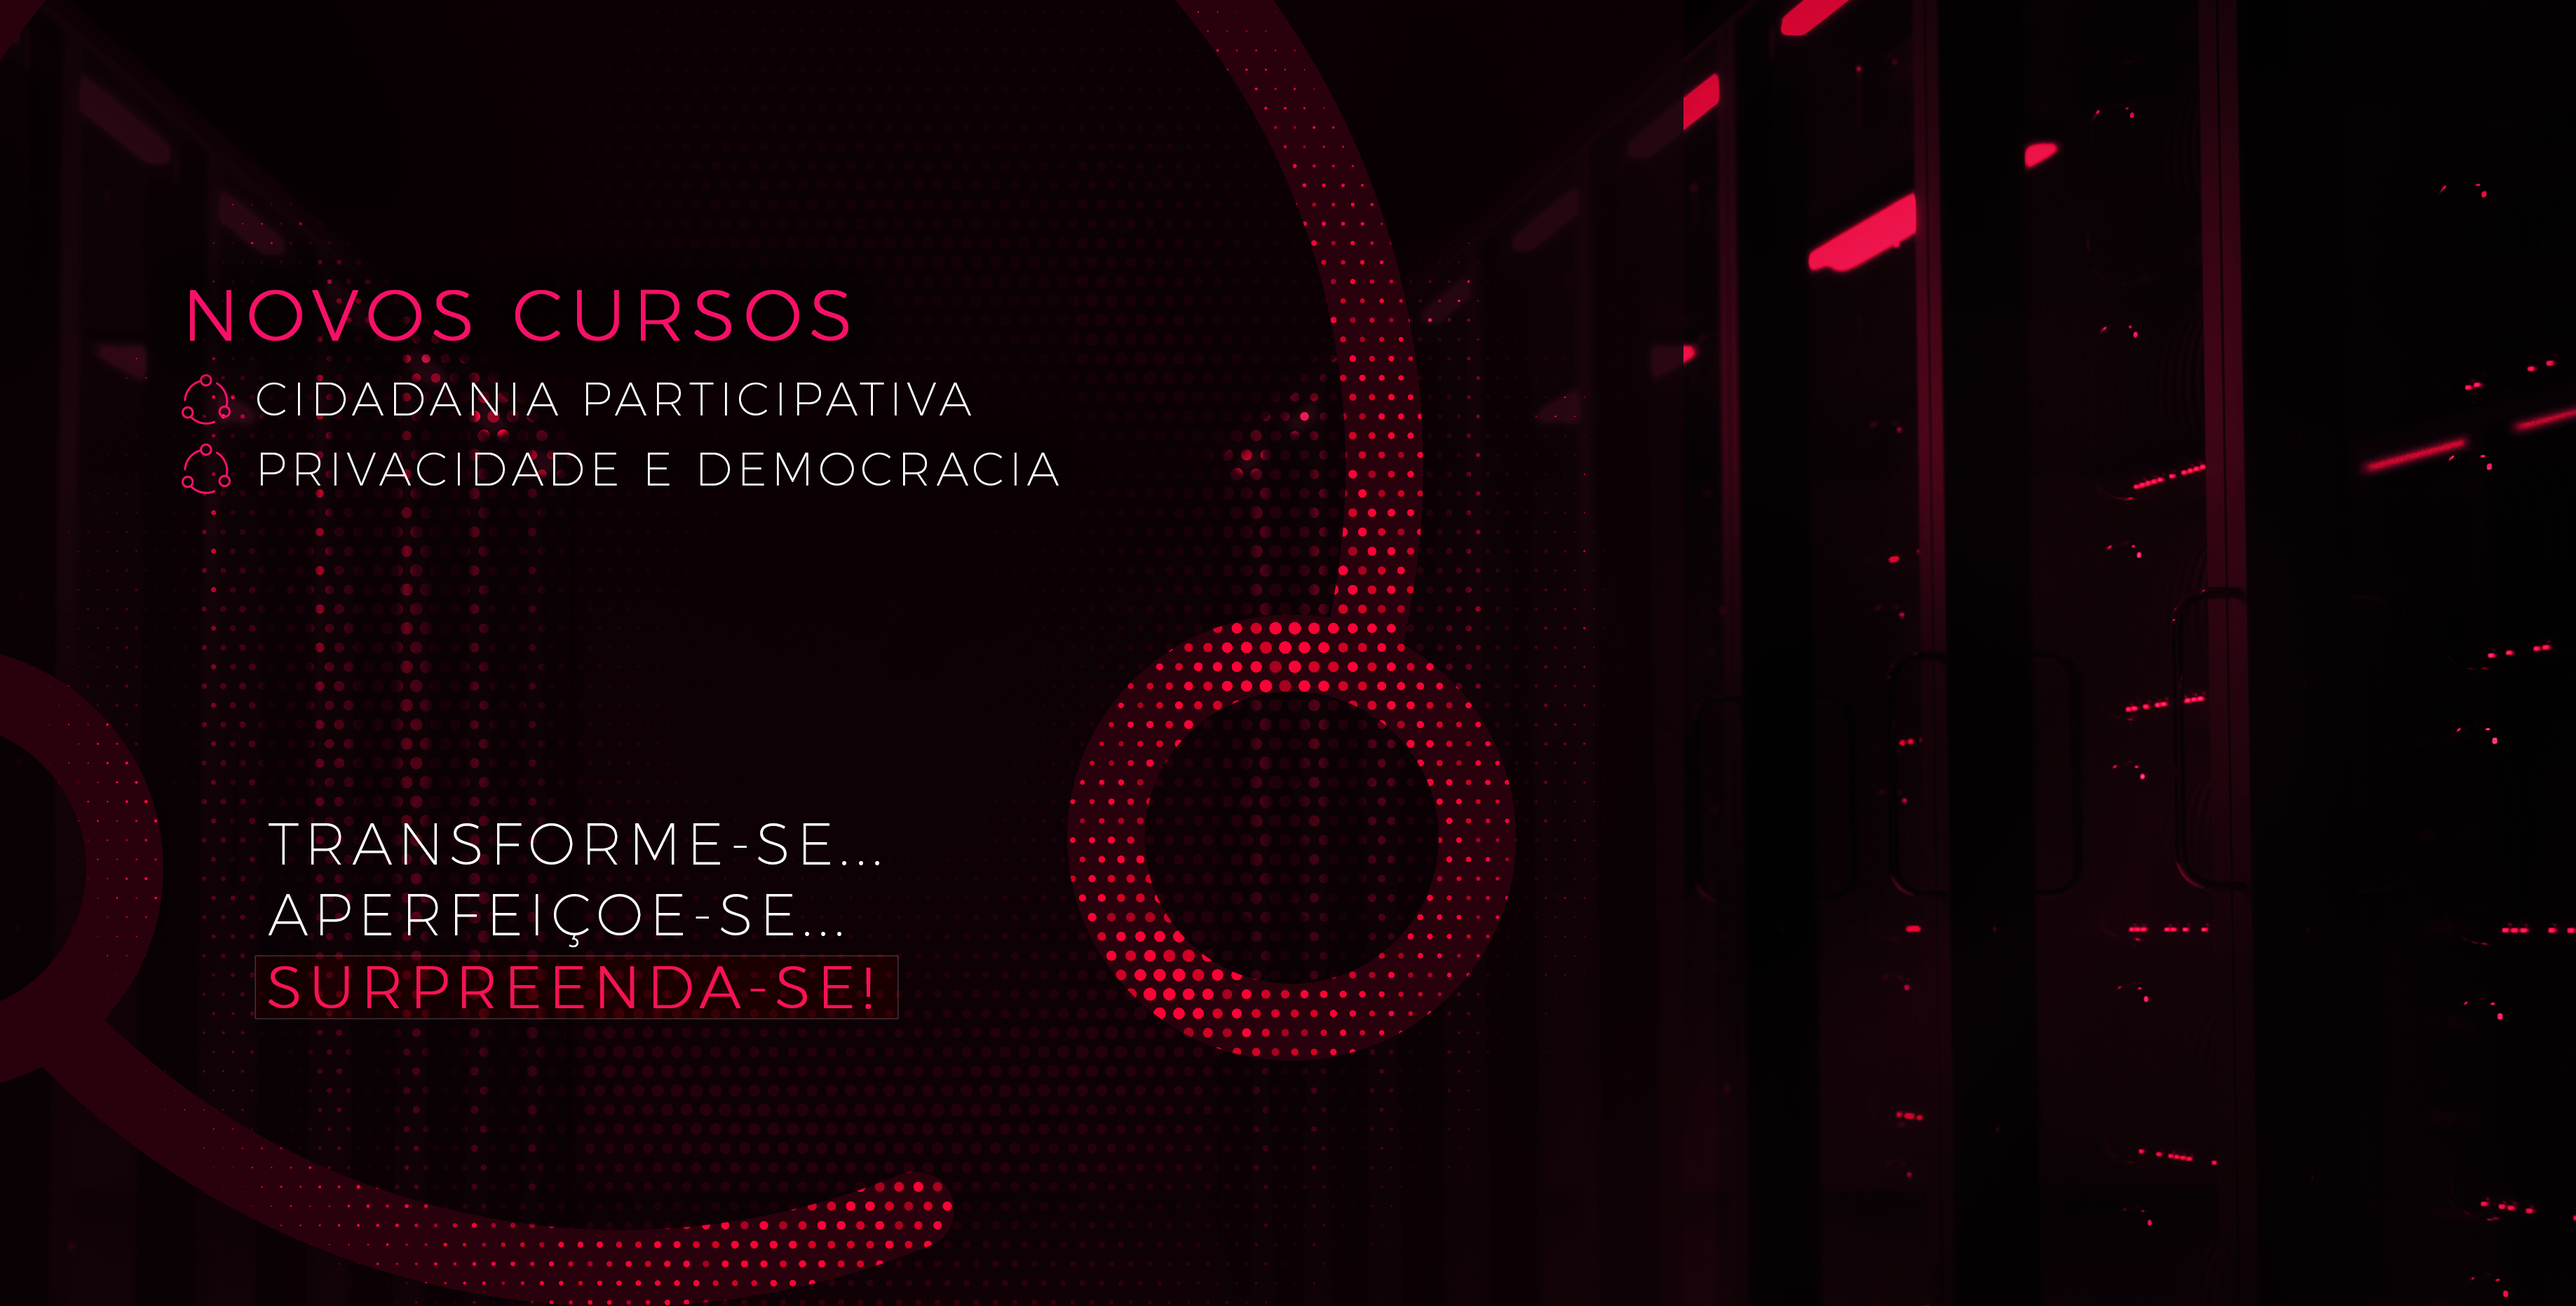
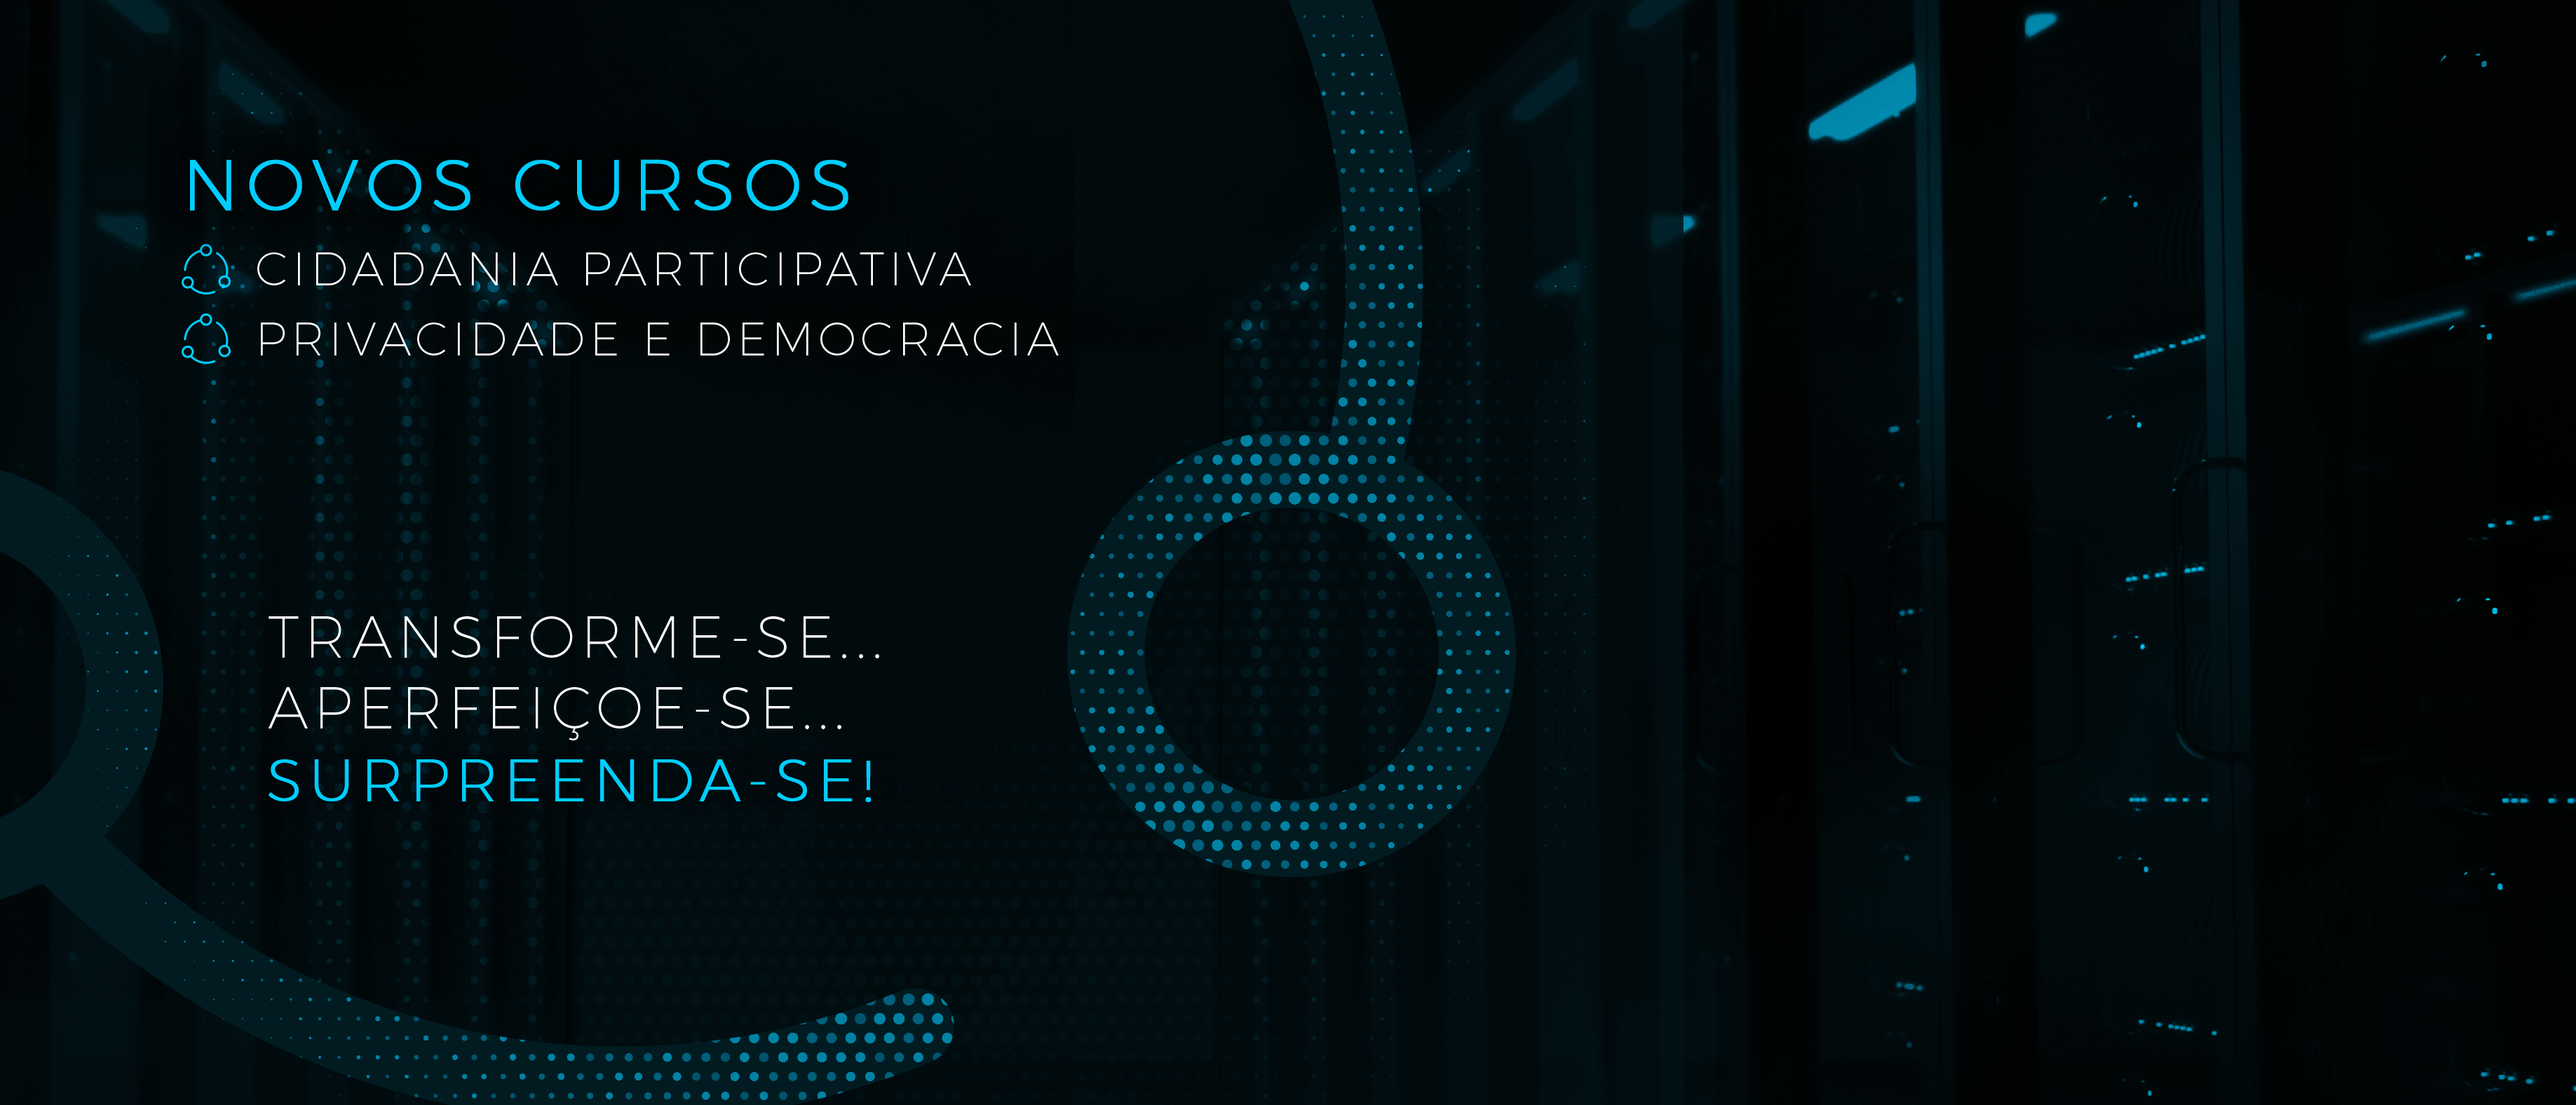
Nova identidade visual

diff --git a/estilo/estilos.css b/estilo/estilos.css
@@ -1,8 +1,6 @@
 /*
-#f61068 pink
-#2b2d42 blue
+#f61068 blue Fatecci
 #8d99af light gray
-#004765 another blue
 */
 
 /*1037x662*/
@@ -29,7 +27,7 @@ body::-webkit-scrollbar-thumb
     border-radius: 10px;
     box-shadow: inset 0 0 6px rgba(0,0,0,.3);
     -webkit-box-shadow: inset 0 0 6px rgba(0,0,0,.3);
-    background-color: #f61067;
+    background-color: #00cdff;
 }
 h1{
 	text-align: center;
@@ -47,9 +45,9 @@ h1{
 }
 .propaganda img{
     width: 100%;
-    border-bottom: 1px groove #f61067;
+    border-bottom: 1px groove #00cdff;
     display: none;
-    padding-top: 7.5%;
+    padding-top: 4%;
 }
 .propaganda img:first-of-type {
     display: block;
@@ -67,7 +65,7 @@ h1{
     top: 0;
     width: 100%;
     text-align: center;
-    border-bottom: 1px groove #f61067;
+    border-bottom: 1px groove #00cdff;
     margin-top: -1%;
     height: 100px;
     position: fixed;
@@ -100,7 +98,7 @@ ul{
 .navbar a:hover {
 /*  background-color: #ddd;*/
   color: #ababab;
-  border-bottom: 5px solid #f61067;
+  border-bottom: 5px solid #00cdff;
 }
 .cursos_geral{
     display: table;
@@ -108,7 +106,7 @@ ul{
 }
 .cursos_geral h3{
     font-size: 22px;
-    color: #f61067;
+    color: #00cdff;
     line-height: 150%;
     width: 60%;
     margin-right: 80%;
@@ -119,7 +117,7 @@ ul{
     text-align: center;
     font-size: smaller;
     text-indent: 0;
-    border: 1px groove #f61067;
+    border: 1px groove #00cdff;
     background-color: black;
     position: absolute;
 }
@@ -130,7 +128,7 @@ ul{
     float: right;
     width: 80%;
     text-align: center;
-    border: 1px groove #f61067;
+    border: 1px groove #00cdff;
     margin-top: 2em;
     margin-left: 10%;
     line-height: 150%;
@@ -150,7 +148,7 @@ ul{
 .footer{
     text-align: center;
     background-color: black;
-    border-top: 1px groove #f61067;
+    border-top: 1px groove #00cdff;
     color: #ababab;
     padding: 0;
     position: flex;
@@ -168,7 +166,7 @@ ul{
     color: black;
 }
 .conteudo_curso:hover{
-    border-bottom: 5px solid #f61067;
+    border-bottom: 5px solid #00cdff;
 }
 .curriculo{
     text-decoration: underline;
@@ -182,14 +180,14 @@ ul{
 }
 .sobre h3{
     font-size: 22px;
-    color: #f61067;
+    color: #00cdff;
 }
 .img_aluno{
     width: 10%;
     text-align: center;
     font-size: smaller;
     text-indent: 0;
-    border: 1px groove #f61067;
+    border: 1px groove #00cdff;
     position: absolute;
     margin-top: 10px;
     margin-left: 90px;
@@ -200,7 +198,7 @@ ul{
     float: right;
     width: 70%;
     text-align: center;
-    border: 1px groove #f61067;
+    border: 1px groove #00cdff;
     margin-right: 10%;
     margin-top: 6%;
     padding: 5px;
@@ -209,7 +207,7 @@ ul{
     color: #ababab;
 	width: 100%;
     text-align: center;
-    border: 1px groove #f61067;
+    border: 1px groove #00cdff;
     padding: 10px;
 }
 .noticia p {
@@ -227,7 +225,7 @@ ul{
 }
 .ex_alunos h3{
     font-size: 22px;
-    color: #f61067;
+    color: #00cdff;
     line-height: 150%;
     width: 60%;
     margin-right: 80%;
@@ -242,7 +240,7 @@ ul{
     line-height: 175%;
 }
 .feed_noticias h3{
-    border-bottom: 1px groove #f61067;
+    border-bottom: 1px groove #00cdff;
     /*margin-right: 30%;*/
     margin-left:18%;
     margin-right: 25%;
@@ -255,7 +253,7 @@ ul{
     font-style: italic;
     font-size: smaller;
     text-indent: 0;
-    border: 1px groove #f61067;
+    border: 1px groove #00cdff;
     margin-left: 3%;
 }
 .disciplinas{
@@ -264,14 +262,14 @@ ul{
 }
 .disciplinas h3{
     font-size: 22px;
-    color: #f61067;
+    color: #00cdff;
     line-height: 150%;
     width: 60%;
     margin-right: 80%;
 }
 .disciplinas h4{
     text-align:center;
-    background-color:#f61067;
+    background-color:#00cdff;
 } 
 .informacoes_basicas{
     display: table;
@@ -279,7 +277,7 @@ ul{
 }
 .informacoes_basicas h3{
     font-size: 22px;
-    color: #f61067;
+    color: #00cdff;
     line-height: 150%;
     width: 60%;
     margin-right: 80%;
